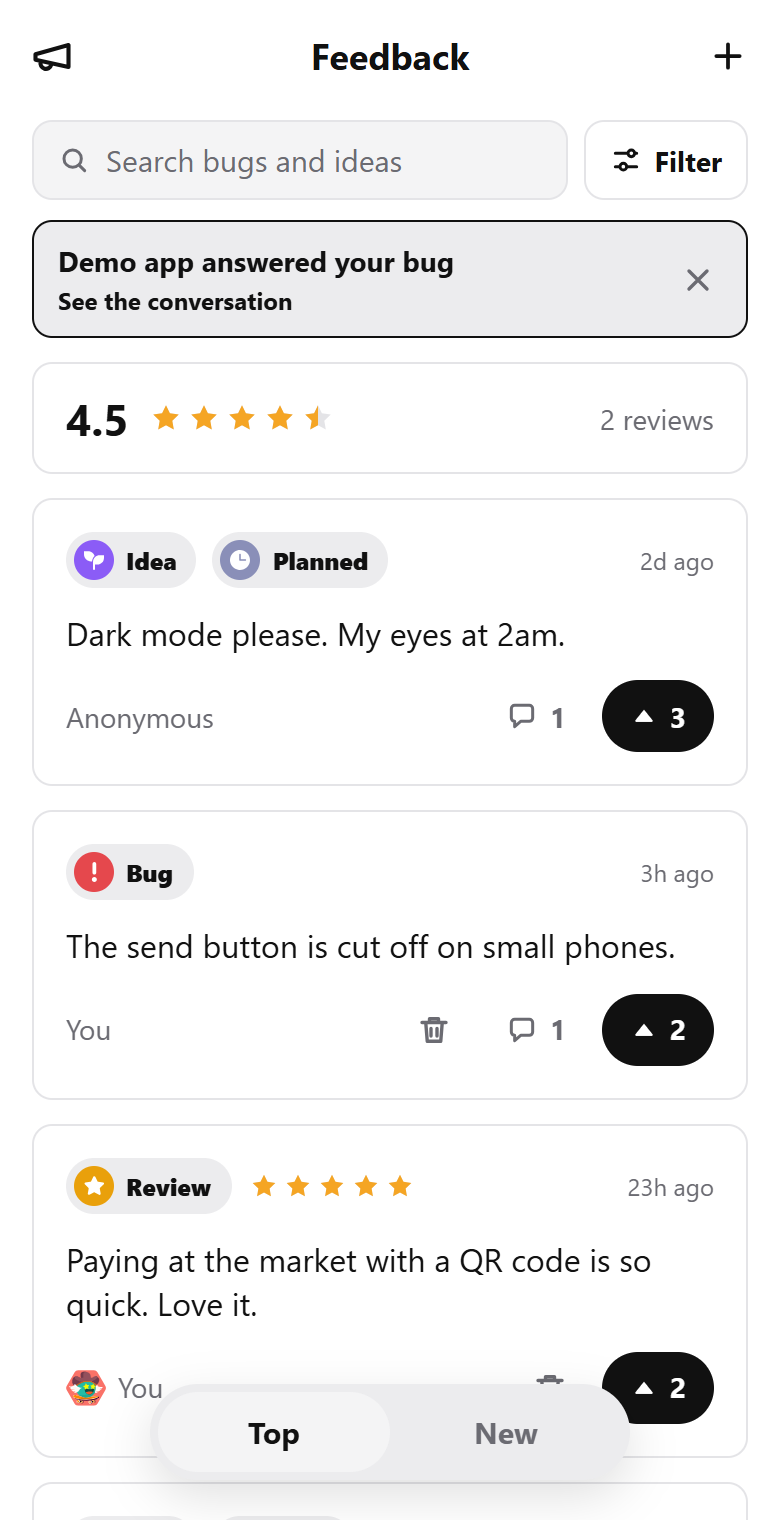
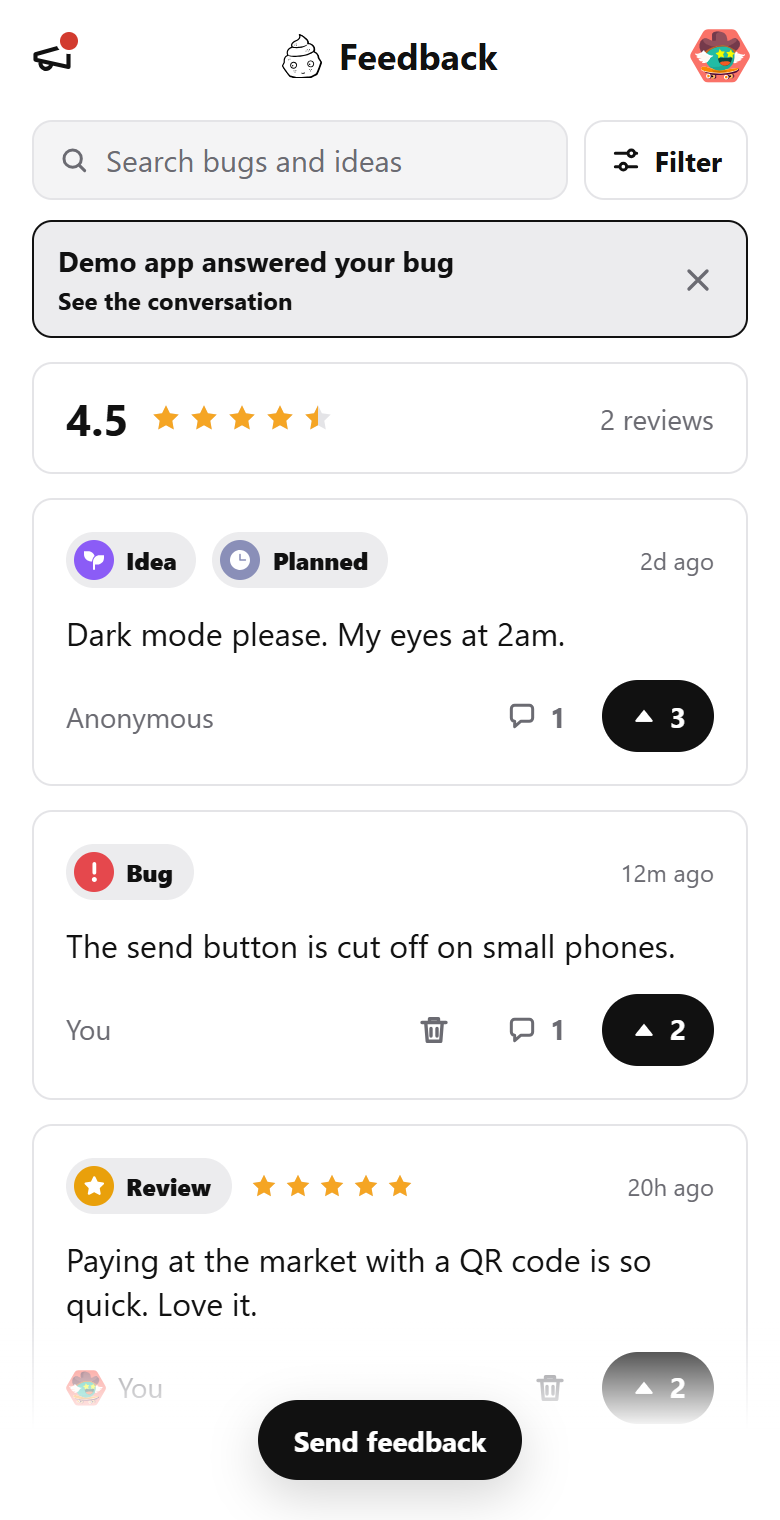
Prepare 0.5.0: V2 in the docs, README pictures retaken
- docs/decisions.md: why widget V2 looks the way it does, and why it ships as
  0.5.0 (never published) rather than 0.6.0.
- docs/api-v1.md: `Post.short` and `Me.short` are 0.5.0.
- README: names are asked once on the first post and changed in Settings; a
  post without a name shows the address cut short.
- README pictures taken again from the demo board, now showing V2; the
  screenshot script signs in with "Sign in" and writes via Send feedback.

diff --git a/docs/decisions.md b/docs/decisions.md
@@ -1935,6 +1935,43 @@ not an official Nimiq product. Also proposed and not taken (for now): the
 hexagon in the header, the demo's app as a Nimiq Pay mini app, the hexagon
 in the footer.
 
+## 2026-11-28: Widget V2, and 0.5.0 goes out
+
+Designed in Figma first (page "📱 Screens V2" in the widget file), then built
+(PR #12, merged with the minimal site). What changed, and why:
+
+- **Who you are is set once, in Settings, not on every post.** The writing
+  screen lost its name field and "Post anonymously" switch; both live on a
+  Settings page behind your identicon, top right, where the + was. The name
+  saves itself ("Saved"); "Post anonymously" is remembered in the browser and
+  sent with each post. Settings is groups of rows, so a new setting is one
+  more row. Log out is there only in a browser, with a sheet that asks first:
+  inside Nimiq Pay the wallet is the app's.
+- **No name means a short address, not "nothing".** Owner's choice: a post
+  that is not anonymous and has no name shows `NQ12 … AB34`. The API grew
+  `Post.short` and `Me.short` (0.5.0); the whole address still never leaves
+  the server, which a test checks. This reverses the old line "your address is
+  never shown": the cut-short form now is.
+- **The first post asks for a name**, once per wallet, as it goes up ("How
+  should others see you?", Save and post / Skip), so there is a name under the
+  very first post without a form before it.
+- **Signing in is asked when it matters.** The card on top of the board for
+  everybody who only came to read is gone; Send feedback or a vote, signed out
+  in a browser, opens a sheet, and after signing in it carries on.
+- **One button to write: "Send feedback"** at the foot, over a fade, compact
+  and text only. Top/Newest moved into the Filter sheet. Tried and not taken
+  on the way: a row of sideways-scrolling chips (awkward with a mouse), tabs,
+  and coloured kind chips.
+- **A chosen filter is a state, not an action**: grey and bold, not black.
+  Black stays for the buttons that do something.
+- **The app's logo before "Feedback"**: PleaseNoBugs' own by default, an app's
+  own with `logo="https://…"`, none with `logo="none"`.
+- A dot on the Updates megaphone while there is an update the browser has not
+  seen.
+
+Released as 0.5.0 rather than 0.6.0: 0.5.0 (light and dark themes, the
+minimal site) was never published, so this goes out with it.
+
 ## Where it stands
 
 The first app moved onto PleaseNoBugs on 2026-10-15 and that move is finished: its

diff --git a/README.md b/README.md
@@ -11,7 +11,7 @@ one place, without asking anybody to send you an email.
 <p>
   <img src="docs/images/board.png" width="250" alt="The board: ideas and bugs with votes and the app's answers">
   <img src="docs/images/owner-answer.png" width="250" alt="The owner answering a bug: status, a reply, and the app version it came from">
-  <img src="docs/images/tiles.png" width="250" alt="The three tiles behind the plus: report a bug, share an idea, write a review">
+  <img src="docs/images/tiles.png" width="250" alt="The three tiles behind Send feedback: report a bug, share an idea, write a review">
 </p>
 
 > **Status: 0.5.0, early.** It runs the board on its own home page.
@@ -40,7 +40,9 @@ one place, without asking anybody to send you an email.
   all to yourself with `screenshots="owners"`. A screenshot is deleted by
   itself once you mark the post Done or Not doing.
 - **A name, or anonymous.** A post shows its author's identicon and name,
-  unless they post anonymously; a wallet address is never shown to anyone.
+  asked once on their first post and changed in Settings, behind their
+  identicon. Without a name it shows the address cut short (`NQ12 … AB34`);
+  "Post anonymously" in Settings hides both. A whole address is never shown.
 - **Login is the Nimiq wallet your users already have.** No accounts, no email.
 - **Minimal, light or dark**: white with near-black buttons (`light`, the
   default) or the same on near-black (`dark`). PleaseNoBugs' purple

diff --git a/docs/api-v1.md b/docs/api-v1.md
@@ -217,7 +217,7 @@ The whole board: a `BoardRead`.
   address, and `who`, their name, when they have one. `GET
   /v1/identicons/:code.svg` draws it. An anonymous post carries neither.
 - A post that is not anonymous and whose author has no name carries `short`
-  *(0.6.0)* instead of `who`: the address cut to its first and last four
+  *(0.5.0)* instead of `who`: the address cut to its first and last four
   characters, `NQ12 … AB34` (`shortAddress()` in core), so people who chose no
   name can still be told apart. Never the whole address, and never on an
   anonymous post.
@@ -231,7 +231,7 @@ The whole board: a `BoardRead`.
 ```
 
 `face` *(0.4.0)* is this wallet's own identicon code, so a client can show it
-beside the name before anything is posted. `short` *(0.6.0)* is this wallet's
+beside the name before anything is posted. `short` *(0.5.0)* is this wallet's
 address cut short, what others see on its posts while it has no name.
 
 `left` is how many posts remain in this wallet's rolling day. The allowance
